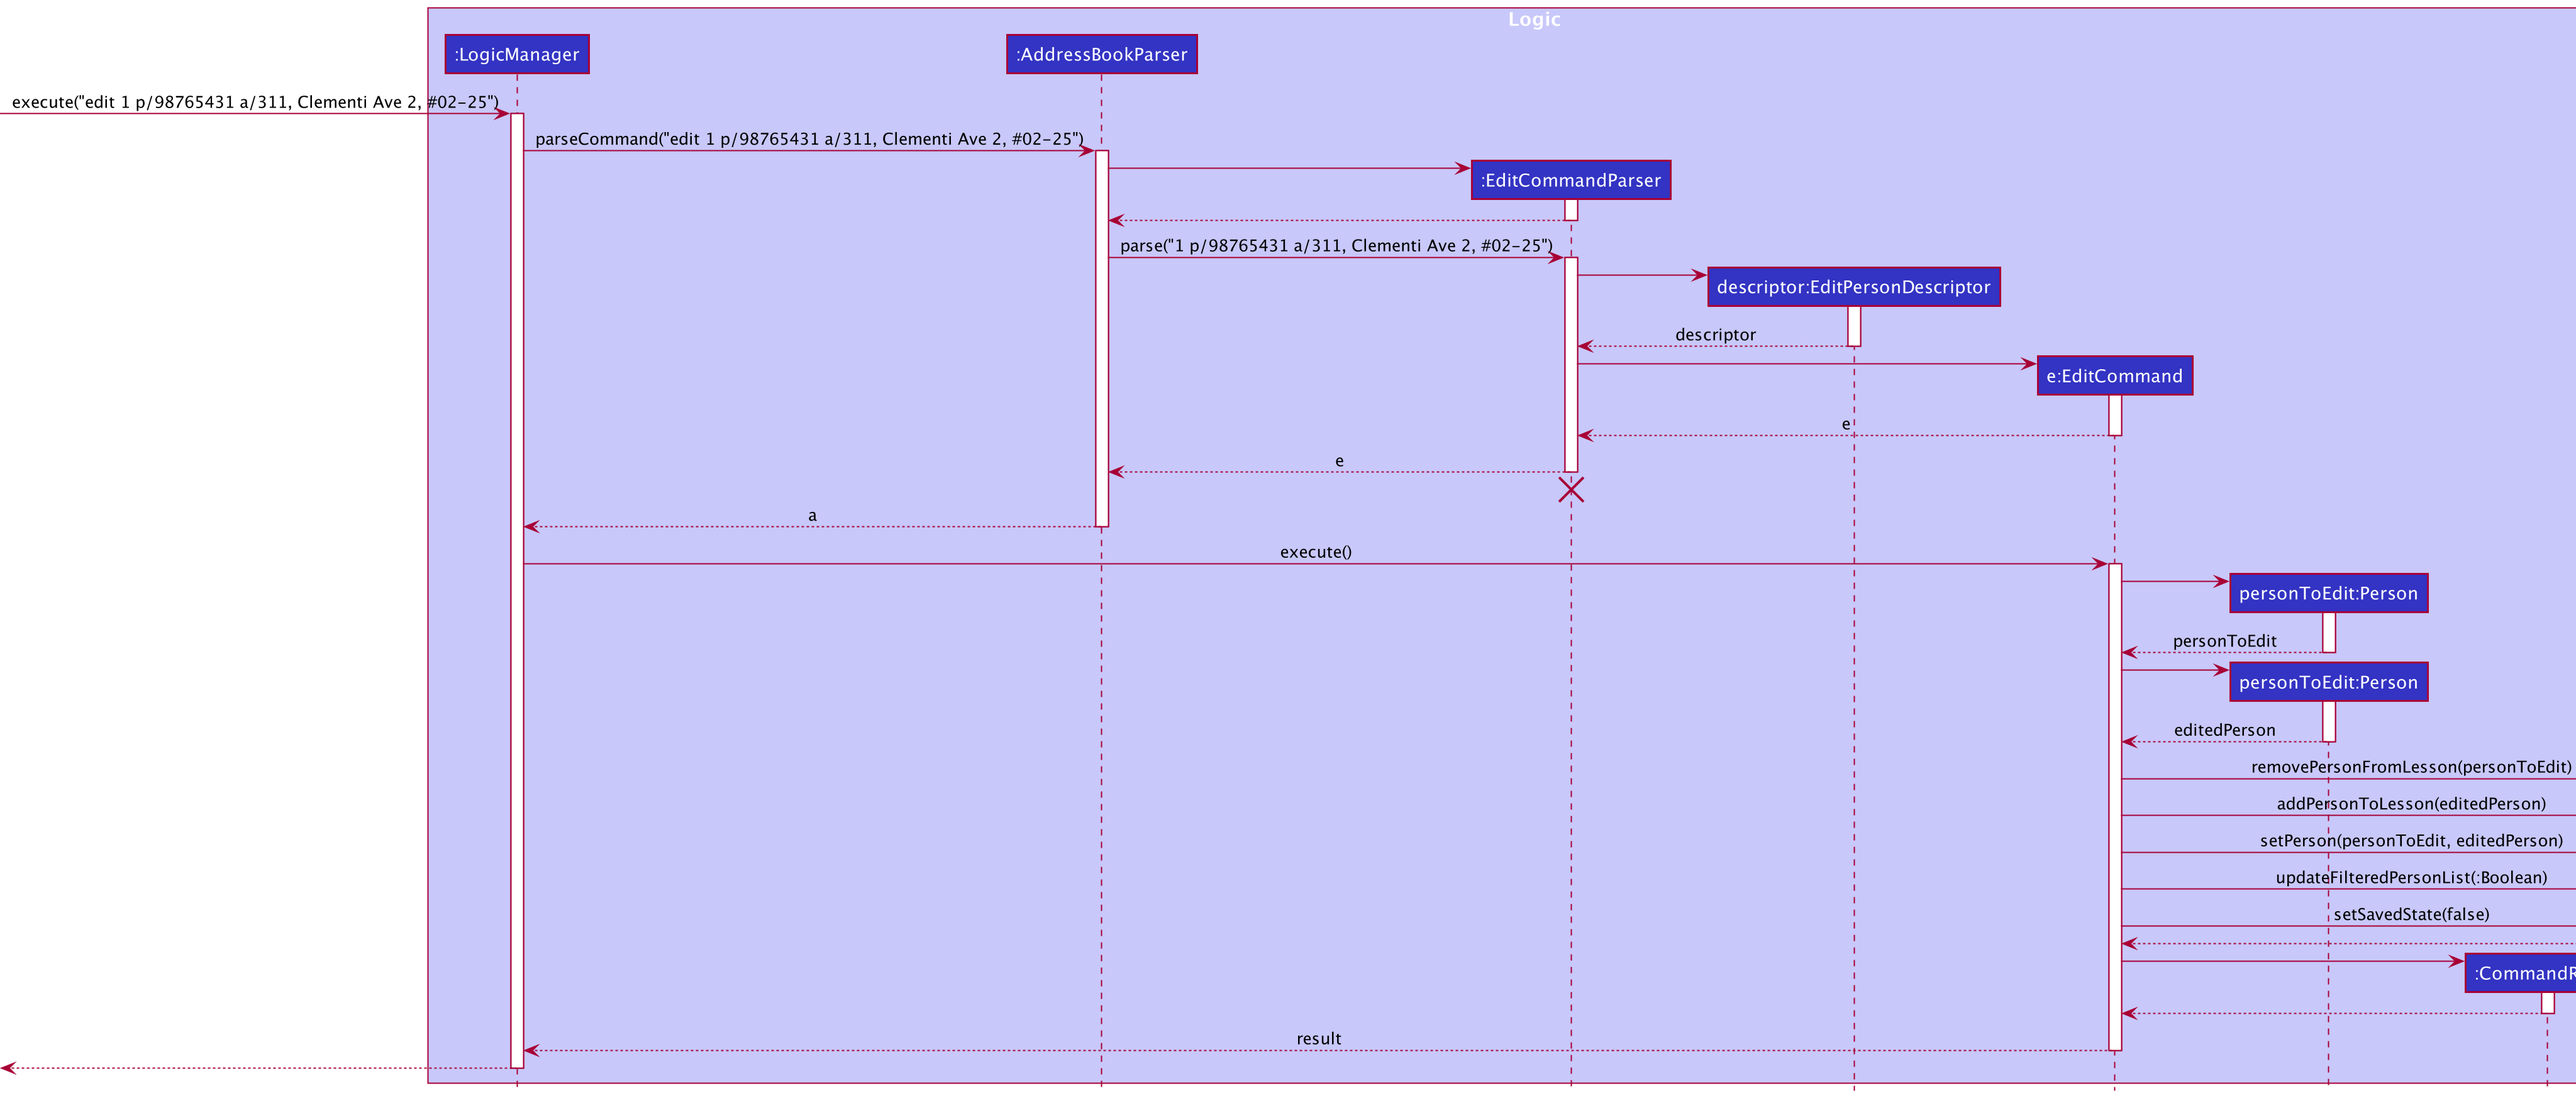
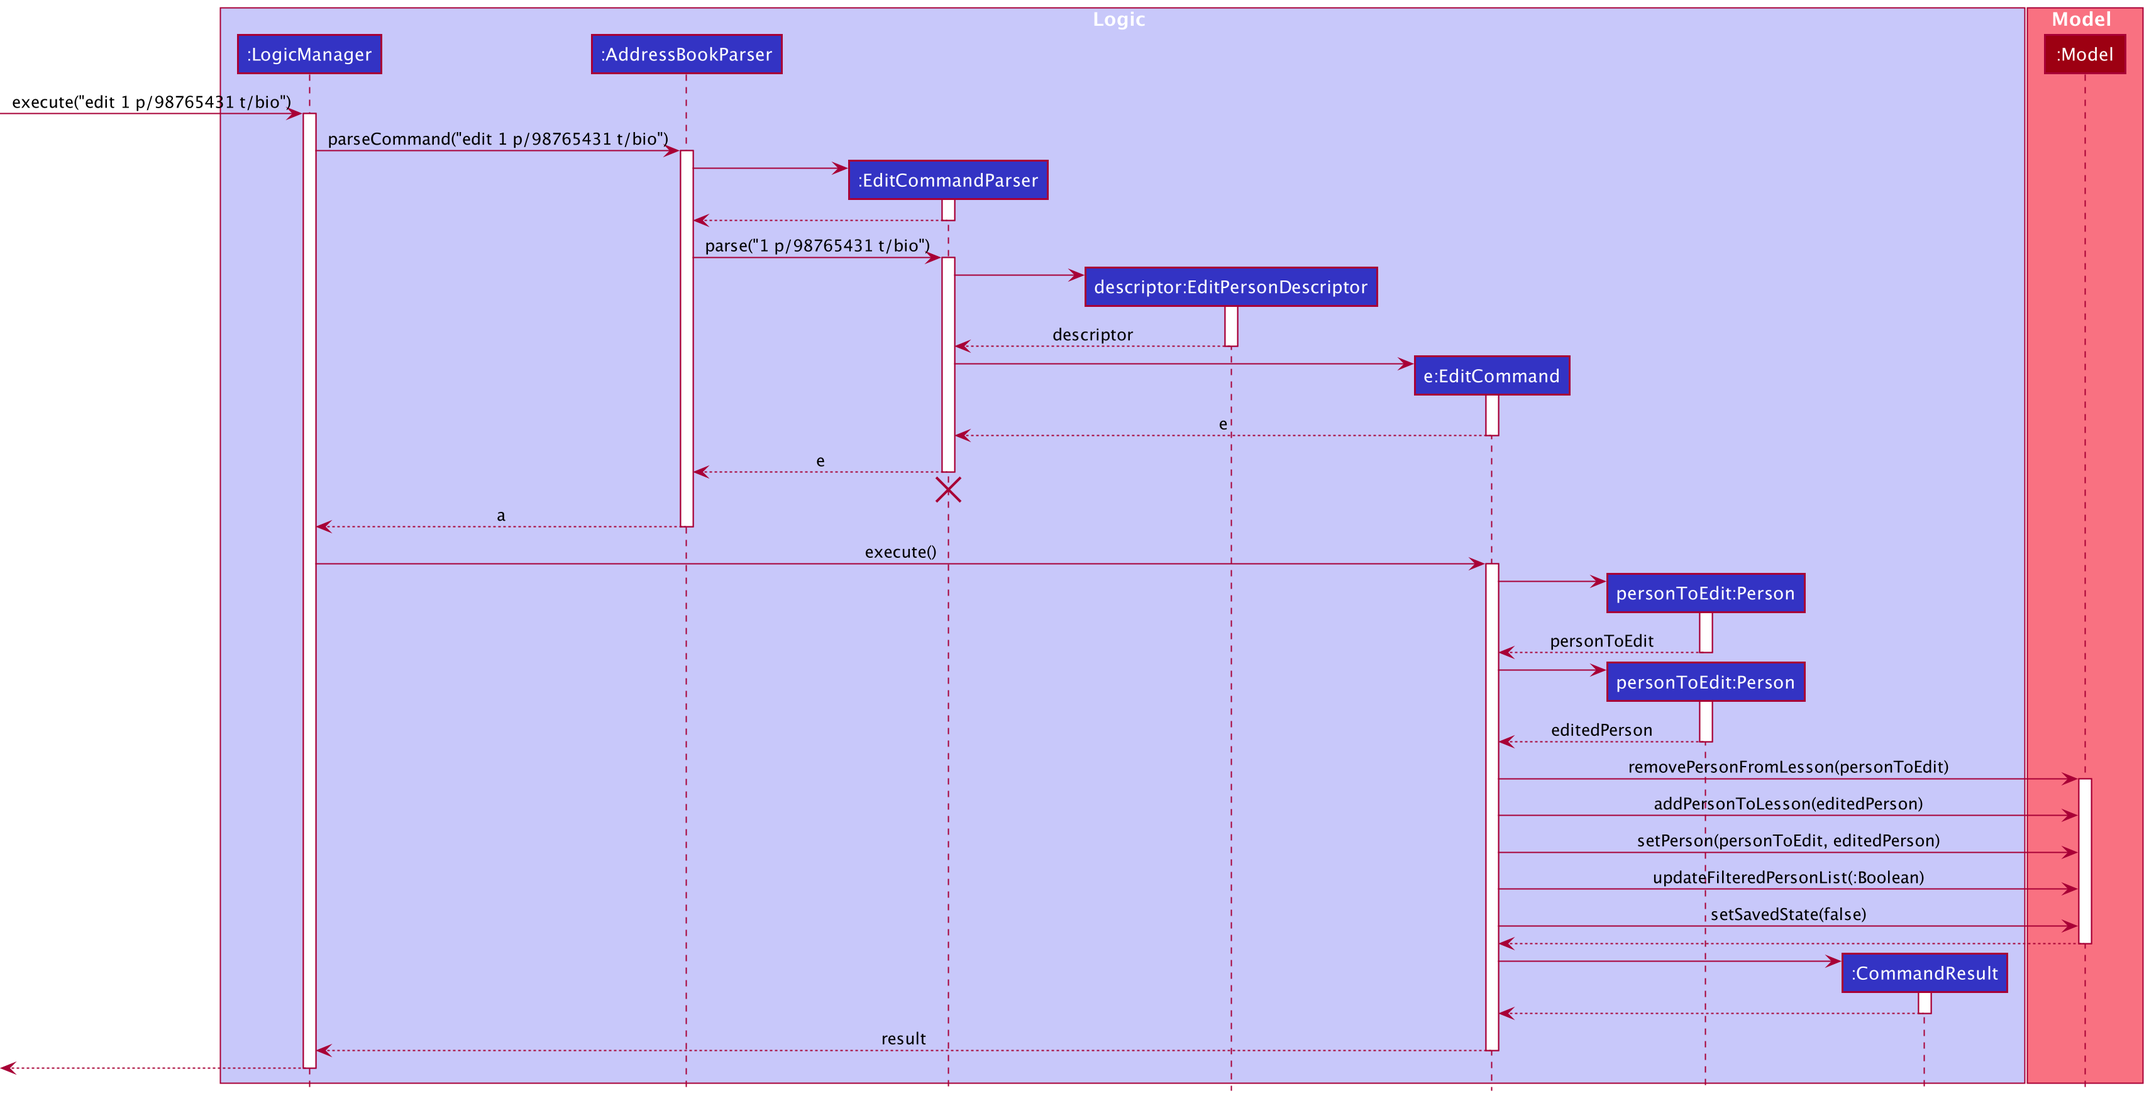
Refine size of diagram

diff --git a/docs/DeveloperGuide.md b/docs/DeveloperGuide.md
@@ -215,11 +215,11 @@ Given below is an example usage scenario and how the edit mechanism behaves at e
 
 <div markdown="span" class="alert alert-primary">:bulb: **Note:**
 Assume that a student John Doe has been added in with the command `add n/John Doe p/98765432` and is currently 1st student in TutorsPet. 
-Then, the information of John Doe is edited. Here, an example of the student's phone being changed and the student's address being added with `edit` command is used.
+Then, the information of John Doe is edited. Here, an example of the student's phone being changed and the student's subject being added with `edit` command is used.
 </div>
 
-Step 1. The user executes `edit 1 p/98765431 a/311, Clementi Ave 2, #02-25` command to edit the existing student John Doe 
-to change his phone number and add in his address.
+Step 1. The user executes `edit 1 p/98765431 t/bio` command to edit the existing student John Doe 
+to change his phone number and add in his subject.
 
 Step 2. The user input is parsed by `AddressBookParser`, which passes the edit command's argument to `EditCommandParser`.
 
